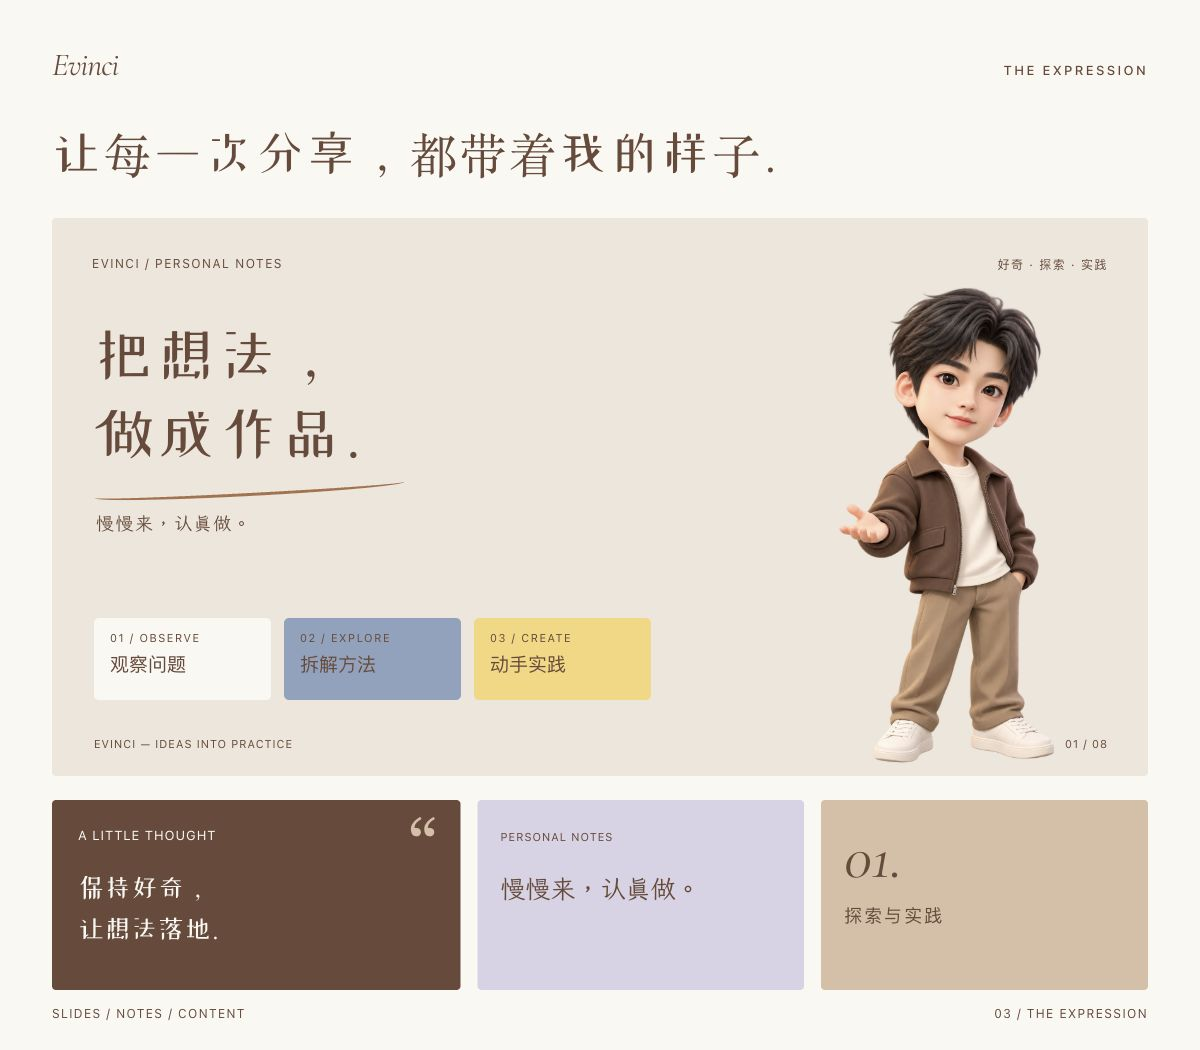
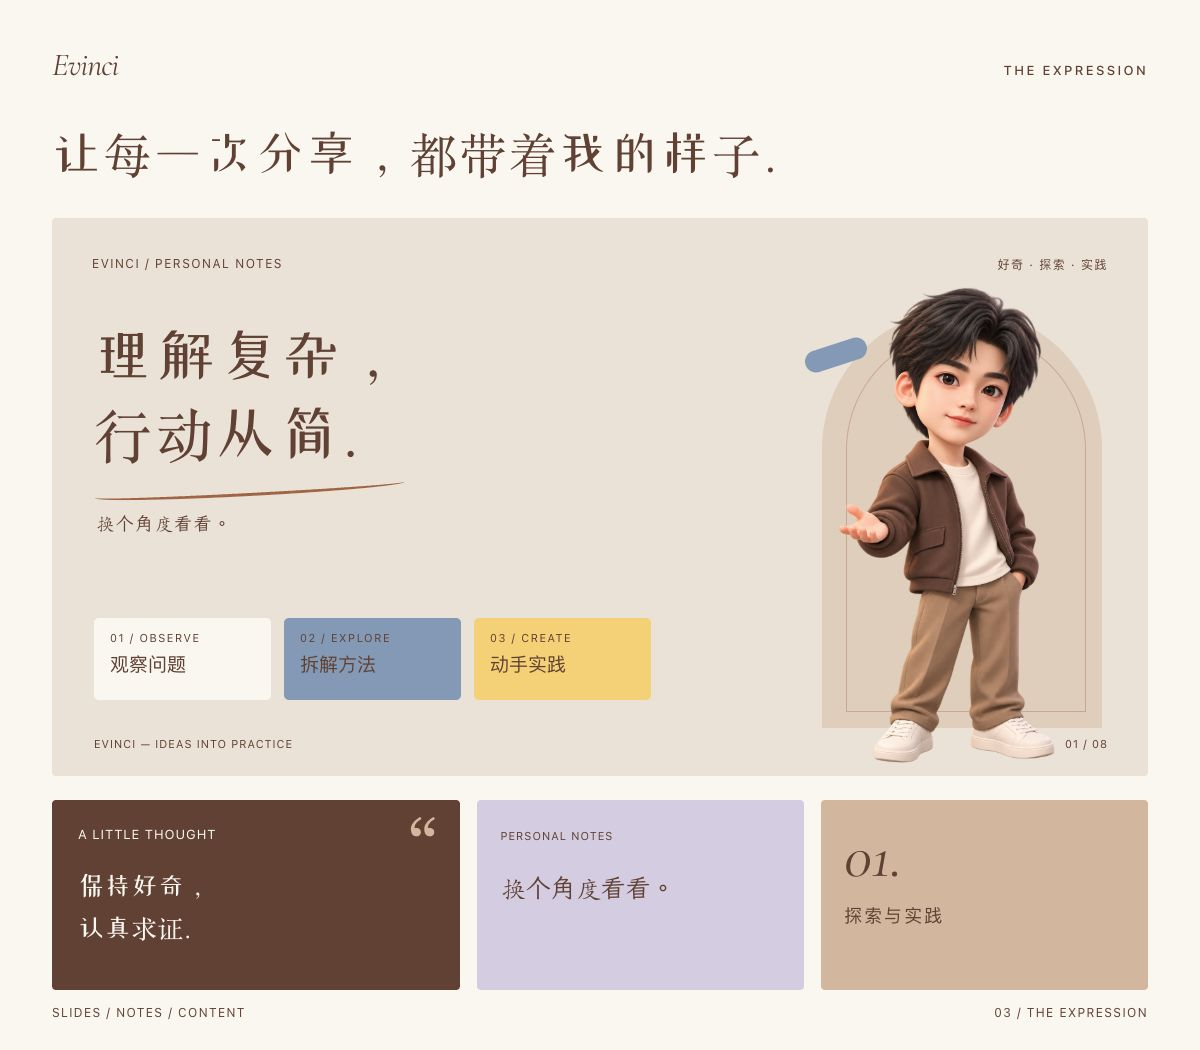
以有结构的好奇心更新个人视觉表达

diff --git a/README.md b/README.md
@@ -2,7 +2,13 @@
 
 <h1 align="center">Evinci · 个人视觉体系</h1>
 
-<p align="center">温暖，有自己的表达。<br>AI · 教育 · 创作</p>
+<p align="center">Understand complexity. Act simply.<br>AI · 教育 · 创作</p>
+
+## 有结构的好奇心
+
+好奇心带来新的视角，结构让表达清楚。现代编辑排版、自然的质感与少量奇想，共同构成清晰、自主、生动的个人表达。
+
+![视角之窗、思考批注与探索页签](assets/elements.png)
 
 ## 个人形象
 
@@ -10,7 +16,7 @@
 
 ## 色彩与风格
 
-以咖啡棕与奶茶色建立温暖、稳重的底色，用雾霾蓝带来清爽的层次，再以少量浅彩保留轻快与好奇。克制的编辑排版、富有笔触的艺术字，与亲切的 3D Q 版形象，构成我的个人表达。
+咖啡棕与奶茶色建立识别，雾霾蓝组织层次，少量浅彩标记灵感。衬线标题、清楚的正文和一行手写批注，让思考有结构，也留下自己的判断。
 
 ![棕色个人视觉配色](assets/palette.png)
 
